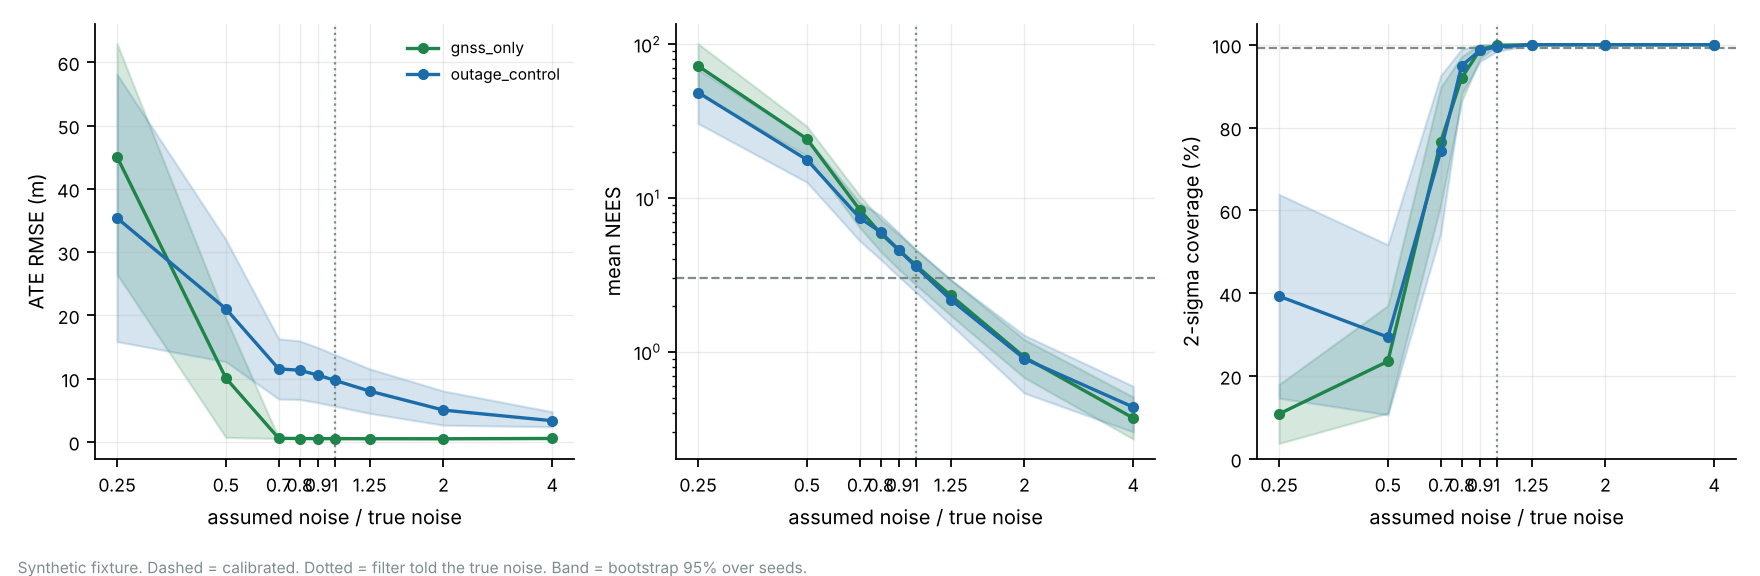
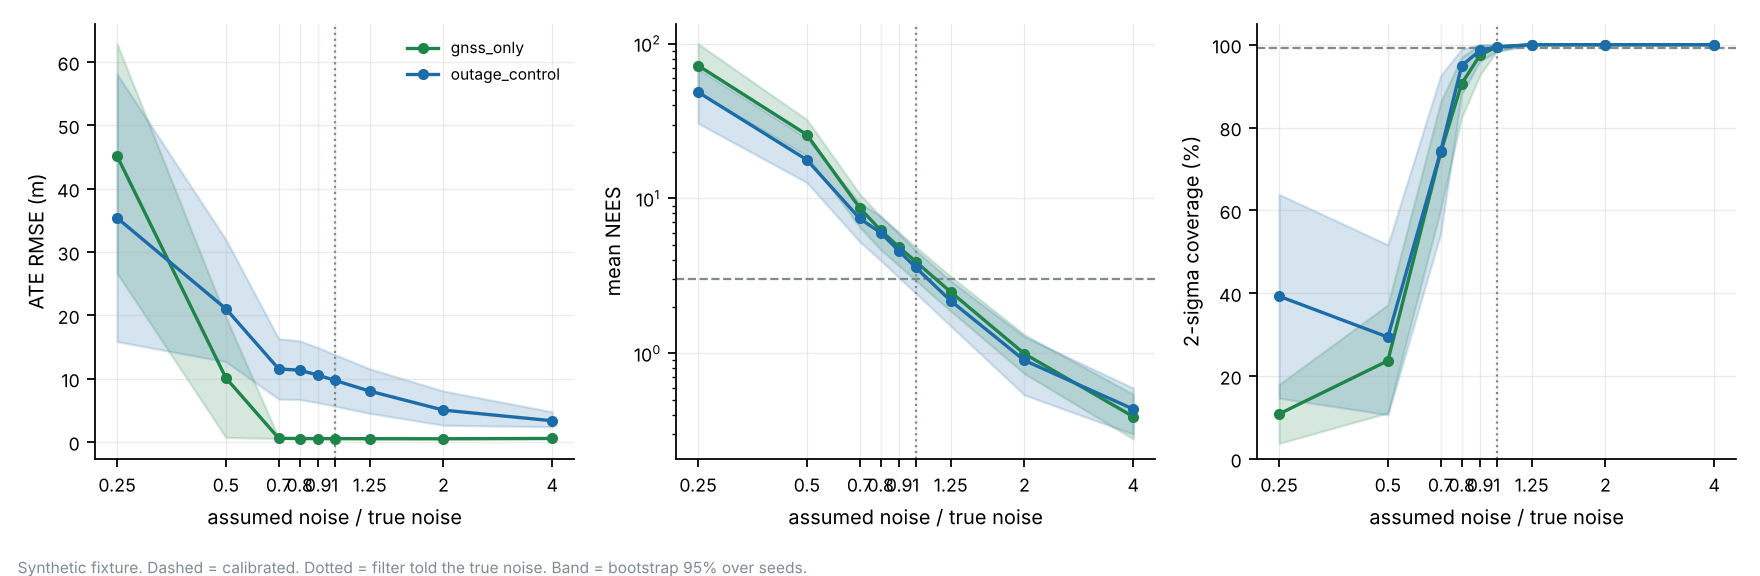
docs: record the injection decision and rerun the mismatch sweep
ADR-0012 records the decision and the before and after numbers. The noise-mismatch sweep is rerun with
IMU noise in gnss_only; the statements on its page still hold. MODEL.md drops finding 7 and the FMEA
rows no longer say the four cases have a noiseless IMU. The changelog notes the fix.

Closes #56

Claude-Session: https://claude.ai/code/session_01GwfcPN95nG6qXCvWKXzrSW

diff --git a/docs/MODEL.md b/docs/MODEL.md
@@ -325,15 +325,6 @@ snapshot.
 6. **The reference frame is the filter's frame.** The filter starts at the identity pose
    and the fixture starts there too, so ATE with `alignment: none` is the headline and
    there is no alignment error to absorb.
-7. **Four benchmark cases run with a noiseless IMU.** `run_case` calls the injection layer only
-   when the scenario has an outage or a camera drop. The synthetic IMU has no noise of its own;
-   the IMU noise and bias are added by that layer. So `gnss_only`, `dead_reckoning`,
-   `vision_anchor_in_measurement_noise` and `vision_only` have a clean IMU, and the three outage
-   cases have the default IMU noise. A scenario that sets only a timestamp offset changes nothing
-   in the streams, and one that sets only an IMU noise scale changes the noise the filter assumes
-   but not the data. Tracked in
-   [issue 56](https://github.com/Telschow/contested-nav/issues/56); `tests/test_fault_matrix.py`
-   pins which cases are affected.
 
 ## FMEA-lite
 
@@ -348,8 +339,8 @@ accuracy or calibration. This is a map of what is known, not a safety analysis.
 | GNSS denial with visual aiding | `gnss_outages` with `vision_fuse` | Visual relative pose with an anchor modelled as state ([ADR-0001](adr/0001-anchor-as-filter-state.md)). | Benchmark `outage_visual`; `navkit sweep outages` | Benchmarked and swept. Overconfident in all 40 sweep runs (coverage 10.4% to 39.2%), including 5 s outages. More accurate than the control only when the outage starts early. Structural, not a fault: shipped disabled ([ADR-0003](adr/0003-ship-visual-disabled.md)). |
 | Camera frame loss | `camera_drop`, `vision_outages` | Missed frames are simply absent; the relative pose then spans a longer baseline. | Benchmark `outage_visual_degraded_camera`; `test_camera_drop_*` in `tests/test_thresholds_and_injection.py`; `navkit sweep faults` | Benchmarked for one bursty pattern (30% of frames, 1 s bursts). Vision outages of 2 s and 5 s are measured in the [fault matrix](faults.md): error rises slowly and nothing is detected, because a missing measurement is not an outlier. |
 | IMU sample loss | `imu_outages` | The previous reading is held over the gap. An outage that removes almost every sample is refused. | `test_imu_outage_*` in `tests/test_thresholds_and_injection.py`; `navkit sweep faults` | Measured ([fault matrix](faults.md)). A 2 s loss raises position error by two orders of magnitude and the FDIR layer declares the healthy GNSS channel faulty; a 0.5 s loss is not declared but costs calibration. |
-| Timestamp offset (IMU, GNSS, vision) | `*_time_offset_s` | None: no latency compensation. | `test_inject_applies_a_vision_time_offset` (injection only); `navkit sweep faults` | GNSS and vision measured ([fault matrix](faults.md)). A GNSS offset degrades calibration with no detection; a vision offset shows nothing on an already uncalibrated case. IMU offset not measured. Scenario time offsets are ignored by the benchmark runner unless the scenario also has an outage or a camera drop ([issue 56](https://github.com/Telschow/contested-nav/issues/56)); the fault matrix forces the injection. |
-| IMU noise and bias | `imu_noise`, `imu_noise_scale` | Filter carries gyro and accelerometer bias states and a matching process noise. | Every benchmark case uses the default noise at scale 1 | Only scale 1 is run. Bias sigma fields are inert (see above). **The four benchmark cases without an outage or camera drop run with a noiseless IMU**, because the injection layer that adds IMU noise is skipped for them (finding 7). |
+| Timestamp offset (IMU, GNSS, vision) | `*_time_offset_s` | None: no latency compensation. | `test_inject_applies_a_vision_time_offset` (injection only); `navkit sweep faults` | GNSS and vision measured ([fault matrix](faults.md)). A GNSS offset degrades calibration with no detection; a vision offset shows nothing on an already uncalibrated case. IMU offset not measured. Every scenario goes through the injection layer, so a time offset on its own takes effect ([ADR-0012](adr/0012-every-scenario-is-injected.md)). |
+| IMU noise and bias | `imu_noise`, `imu_noise_scale` | Filter carries gyro and accelerometer bias states and a matching process noise. | Every benchmark case uses the default noise at scale 1, since every scenario is injected ([ADR-0012](adr/0012-every-scenario-is-injected.md)); `test_every_benchmark_case_goes_through_the_injection_layer` | Only scale 1 is run. Bias sigma fields are inert (see above). A noiseless IMU is `imu_noise_scale: 0`. |
 | Sensor noise mismatch (assumed GNSS or vision noise differs from the true noise) | `estimator.gnss_sigma_scale`, `estimator.vision_sigma_scale` | None specific. The chi-square gate and the NIS monitor work from the assumed noise. | `navkit sweep mismatch`; [Noise mismatch](mismatch.md) | Swept over nine factors for `gnss_only` and `outage_control`. An optimistic model makes the gate reject healthy fixes and calibration is lost between 0.7 and 0.8 of the true noise; a pessimistic one is loose, not wrong. A vision-noise mismatch is not swept. |
 | GNSS multipath, single spike | measurement outlier | Chi-square gate rejects it once, with a stated false-alarm rate ([ADR-0005](adr/0005-chi-square-fdir-gating.md)); recovers on the next good fix. | `test_a_single_multipath_spike_is_rejected_once_and_recovers_immediately` in `tests/test_fdir.py`; `navkit sweep faults` | Measured ([fault matrix](faults.md)): the gate rejects a 20 m spike in every seed, no fault is declared and the error does not move. |
 | GNSS slow bias | `gnss.multipath_sigma_m`, `multipath_tau_s` | None specific. A Gauss-Markov surrogate, not a multipath model. | The model is in `sensors/models.py`; `navkit sweep faults` | Measured ([fault matrix](faults.md)): mostly invisible to the gate at 1 sigma, and the filter becomes overconfident. |

diff --git a/docs/mismatch.md b/docs/mismatch.md
@@ -23,15 +23,15 @@ reruns the sweep and fails if the committed CSV no longer matches it.
 
 | Case | Assumed noise x | ATE rmse m [95% CI] | NEES mean [95% CI] | Coverage @2σ % [95% CI] | Claimed 1σ m | GNSS fixes rejected % [95% CI] | Verdicts |
 |---|---:|---|---|---|---:|---|---|
-| gnss_only | 0.25 | 45.03 [26.46, 62.92] | 72.3 [48.1, 100.8] | 10.8 [3.7, 18.0] | 7.198 | 94.4 [92.1, 96.8] | overconfident x5 |
-| gnss_only | 0.5 | 10.07 [0.70, 19.57] | 24.3 [18.8, 29.3] | 23.5 [11.0, 37.0] | 2.251 | 47.8 [22.8, 75.0] | overconfident x5 |
-| gnss_only | 0.7 | 0.57 [0.53, 0.61] | 8.4 [6.4, 10.4] | 76.5 [61.3, 89.7] | 0.187 | 4.2 [3.7, 4.9] | overconfident x5 |
-| gnss_only | 0.8 | 0.52 [0.49, 0.57] | 5.9 [4.5, 7.3] | 92.0 [86.3, 97.1] | 0.207 | 1.2 [0.9, 1.3] | mixed(bulk xoverconfident, tail xunderconfident) x1, overconfident x4 |
-| gnss_only | 0.9 | 0.51 [0.47, 0.56] | 4.6 [3.4, 5.8] | 98.8 [96.7, 100.0] | 0.228 | 0.1 [0.0, 0.4] | mixed(bulk xoverconfident, tail xcalibrated) x1, mixed(bulk xoverconfident, tail xunderconfident) x2, overconfident x1, underconfident x1 |
-| gnss_only | 1 | 0.51 [0.46, 0.55] | 3.7 [2.7, 4.6] | 99.9 [99.6, 100.0] | 0.252 | 0.0 [0.0, 0.0] | mixed(bulk xoverconfident, tail xcalibrated) x1, mixed(bulk xoverconfident, tail xunderconfident) x2, underconfident x2 |
-| gnss_only | 1.25 | 0.50 [0.46, 0.54] | 2.3 [1.7, 3.0] | 100.0 [100.0, 100.0] | 0.312 | 0.0 [0.0, 0.0] | mixed(bulk xoverconfident, tail xunderconfident) x1, underconfident x4 |
-| gnss_only | 2 | 0.49 [0.44, 0.54] | 0.9 [0.7, 1.2] | 100.0 [100.0, 100.0] | 0.489 | 0.0 [0.0, 0.0] | underconfident x5 |
-| gnss_only | 4 | 0.54 [0.48, 0.60] | 0.4 [0.3, 0.5] | 100.0 [100.0, 100.0] | 0.920 | 0.0 [0.0, 0.0] | underconfident x5 |
+| gnss_only | 0.25 | 45.14 [26.64, 62.88] | 72.1 [48.4, 99.7] | 10.8 [3.7, 18.0] | 7.199 | 94.4 [92.1, 96.8] | overconfident x5 |
+| gnss_only | 0.5 | 10.10 [0.70, 19.69] | 25.8 [18.9, 32.3] | 23.7 [11.1, 37.2] | 2.255 | 48.1 [22.9, 75.4] | overconfident x5 |
+| gnss_only | 0.7 | 0.57 [0.53, 0.62] | 8.7 [6.5, 10.7] | 74.0 [60.3, 86.2] | 0.187 | 4.4 [3.7, 5.2] | overconfident x5 |
+| gnss_only | 0.8 | 0.53 [0.50, 0.58] | 6.2 [4.7, 7.6] | 90.6 [82.5, 97.0] | 0.207 | 1.2 [0.9, 1.3] | mixed(bulk xoverconfident, tail xunderconfident) x1, overconfident x4 |
+| gnss_only | 0.9 | 0.52 [0.48, 0.57] | 4.8 [3.7, 6.0] | 97.5 [92.7, 100.0] | 0.228 | 0.1 [0.0, 0.4] | mixed(bulk xcalibrated, tail xunderconfident) x1, mixed(bulk xoverconfident, tail xcalibrated) x1, mixed(bulk xoverconfident, tail xunderconfident) x2, overconfident x1 |
+| gnss_only | 1 | 0.52 [0.47, 0.57] | 3.9 [3.0, 4.9] | 99.5 [98.4, 100.0] | 0.252 | 0.0 [0.0, 0.0] | mixed(bulk xcalibrated, tail xunderconfident) x1, mixed(bulk xoverconfident, tail xunderconfident) x2, overconfident x1, underconfident x1 |
+| gnss_only | 1.25 | 0.51 [0.47, 0.56] | 2.5 [1.9, 3.1] | 100.0 [100.0, 100.0] | 0.312 | 0.0 [0.0, 0.0] | mixed(bulk xoverconfident, tail xunderconfident) x1, underconfident x4 |
+| gnss_only | 2 | 0.50 [0.45, 0.56] | 1.0 [0.7, 1.3] | 100.0 [100.0, 100.0] | 0.489 | 0.0 [0.0, 0.0] | underconfident x5 |
+| gnss_only | 4 | 0.55 [0.49, 0.62] | 0.4 [0.3, 0.5] | 100.0 [100.0, 100.0] | 0.920 | 0.0 [0.0, 0.0] | underconfident x5 |
 | outage_control | 0.25 | 35.37 [15.85, 58.09] | 48.6 [30.5, 68.6] | 39.3 [14.6, 63.8] | 6.940 | 87.9 [82.1, 93.7] | overconfident x5 |
 | outage_control | 0.5 | 21.02 [12.66, 31.96] | 17.8 [12.7, 24.5] | 29.4 [10.6, 51.7] | 2.669 | 43.4 [20.5, 67.9] | overconfident x5 |
 | outage_control | 0.7 | 11.53 [6.77, 16.29] | 7.4 [5.3, 9.4] | 74.3 [54.4, 92.5] | 0.420 | 3.4 [1.6, 5.3] | overconfident x5 |
@@ -82,11 +82,9 @@ Each statement below is checked against the CSV by `tests/test_mismatch_sweep.py
   noise is mismatched.
 - Only the assumed GNSS and vision sigmas change. IMU noise, the outage window and the
   trajectory do not.
-- `gnss_only` runs with a noiseless IMU and `outage_control` with the default IMU noise, because the
-  benchmark runner skips the injection layer for a case with no outage
-  ([issue 56](https://github.com/Telschow/contested-nav/issues/56)). The two cases differ in more than the
-  outage, and the `gnss_only` rows are for a filter with no IMU noise to contend with. The sweep has not
-  been re-run with the layer forced on.
+- Both cases have the default IMU noise ([ADR-0012](adr/0012-every-scenario-is-injected.md)). An
+  earlier version of this sweep ran `gnss_only` with a noiseless IMU; it was rerun after that was fixed
+  and the statements above still hold.
 - Five seeds per cell, so the intervals are rough. At factor 1 the per-seed verdicts are split
   between `mixed`, `underconfident` and `overconfident`; the verdict column shows the split
   rather than a single label.

diff --git a/docs/adr/0012-every-scenario-is-injected.md b/docs/adr/0012-every-scenario-is-injected.md
@@ -1,0 +1,70 @@
+# ADR-0012: Every scenario goes through the injection layer
+
+- Status: accepted
+- Date: 2026-10
+- Fixes: [issue 56](https://github.com/Telschow/contested-nav/issues/56)
+
+## Context
+
+`run_case` in `src/navkit/benchmark.py` applied a scenario to the clean sensor streams with
+`inject()` only if the scenario had a camera drop or an outage. Otherwise the filter was given the
+clean streams. The synthetic IMU has no noise of its own (`synthetic.py`: "no noise floor"); the IMU
+noise and bias are added by `apply_imu_noise`, inside `inject()`.
+
+So four of the seven benchmark cases (`gnss_only`, `dead_reckoning`,
+`vision_anchor_in_measurement_noise`, `vision_only`) ran with a noiseless IMU, and the three outage
+cases ran with the default IMU noise. `configs/benchmark.yaml` says cases "differ only in what is
+degraded, which is what makes them comparable". They also differed in IMU noise. A scenario that
+set only a timestamp offset, or only a vision noise multiplier, had no effect.
+
+It was found while building the fault matrix: a GNSS timestamp offset of 0.5 s produced a result
+identical to the control to every digit.
+
+## Decision
+
+Every scenario goes through `inject()`. The `force_inject` argument added to `run_case` for the fault
+matrix is removed, because nothing is skipped any more.
+
+A noiseless IMU is still available to anyone who wants it: set `imu_noise_scale: 0` on the scenario.
+`tests/test_injection_path.py` checks that this reproduces the old dead-reckoning number.
+
+## Consequences
+
+The three outage cases are bit-identical: the golden snapshot has no changed path for them. The four
+cases that were not injected move, and none changes its calibration verdict:
+
+| Case | ATE m | Mean NEES | 2σ coverage |
+|---|---|---|---|
+| `gnss_only` | 0.503 to 0.509 | 3.7 to 4.0 | 100.0% to 100.0% |
+| `dead_reckoning` | 1.877 to 2.248 | n/a | n/a |
+| `vision_anchor_in_measurement_noise` | 1.307 to 1.310 | 387.3 to 405.0 | 16.0% to 16.2% |
+| `vision_only` | 2.309 to 2.357 | 331.0 to 358.5 | 0.7% to 0.7% |
+
+Claimed 1σ is unchanged to three decimals (0.252, 0.091, 0.156 m). The headline result, GNSS denied
+with vision on (ATE 2.541 m, claimed 0.161 m, mean NEES 419.4, coverage 20.0%), does not move.
+
+The golden snapshot was regenerated in its own commit. The README, results, getting-started and
+calibration pages, and three figures, were updated. The 10-seed and 8-scene sweeps were rerun:
+`outage_visual` is unchanged, the `vision_only` seed range is now 231 to 2917 mean NEES, and all
+seven verdicts are still identical in all eight scenes. The noise-mismatch sweep was rerun with the
+layer applied to `gnss_only`; the statements on its page still hold. The fault matrix was already
+forced through the layer and is unchanged.
+
+`dead_reckoning` is now dead reckoning on a noisy IMU, which is the more honest control. Its error
+is 20% higher than before.
+
+## Alternatives rejected
+
+- **Keep skipping, and state per case that the IMU is clean.** It keeps the old numbers, and keeps
+  four cases that cannot be compared with the other three or with any fault study. The numbers move
+  by little, so the cost of fixing is small.
+- **Add IMU noise to the generator.** The IMU noise model, its seed derivation and its manifest
+  already live in the injection layer. A second source would double the noise or need a switch.
+- **A config key to opt out of injection.** `imu_noise_scale: 0` already says what is meant.
+
+## What this does not settle
+
+The IMU noise injected into every case is the default model
+(`ImuNoiseModel(2e-4, 2e-3, 2e-6, 1e-4, 1e-5, 2e-3)`), whose bias sigma fields are inert
+([model contract](../MODEL.md), finding 1). The decision is about which cases get the noise, not
+about whether the noise model is right.

diff --git a/docs/faults.md b/docs/faults.md
@@ -110,10 +110,9 @@ on the control. **It is not met.**
   runs from under 1 m to nearly 10 m.
 - The spoof is a constant offset east. A spoof that ramps, or that is consistent with the IMU, is
   not tried.
-- Every cell, controls included, goes through the injection layer, so all of them have the default
-  IMU noise. The `gnss_only` and `vision_only` controls therefore differ from the benchmark rows of
-  the same name, which run with a noiseless IMU
-  ([issue 56](https://github.com/Telschow/contested-nav/issues/56), model contract finding 7).
+- Every cell, controls included, has the default IMU noise, as does every benchmark case
+  ([ADR-0012](adr/0012-every-scenario-is-injected.md)). Before that decision four benchmark cases ran
+  with a noiseless IMU; this sweep did not, because it forced the injection.
 - "Detected" and "declared" describe what the filter's own gate did. Nothing here is a protection
   level or an integrity claim, and there is no detector for a slow bias or a timing error to
   measure.

diff --git a/CHANGELOG.md b/CHANGELOG.md
@@ -9,6 +9,16 @@ this project uses [semantic versioning](https://semver.org/).
 
 ## [Unreleased]
 
+### Fixed
+
+- Every benchmark scenario now goes through the injection layer. The runner skipped it for a scenario
+  with no outage or camera drop, which ran `gnss_only`, `dead_reckoning`,
+  `vision_anchor_in_measurement_noise` and `vision_only` with a noiseless IMU and ignored a scenario
+  that set only a timestamp offset. Those four cases move slightly (ATE by 0.003 m to 0.371 m) and no
+  verdict changes; the three outage cases and the headline result are bit-identical.
+  [ADR-0012](docs/adr/0012-every-scenario-is-injected.md), golden snapshot regenerated.
+  ([#56](https://github.com/Telschow/contested-nav/issues/56))
+
 ### Added
 
 - `navkit` command line: `navkit run`, `navkit sweep seeds|scenes|outages`, `navkit figures`

diff --git a/docs/adr/index.md b/docs/adr/index.md
@@ -16,3 +16,4 @@ what it cost, and what was rejected.
 | [ADR-0009](0009-cross-platform-numerics.md) | Cross-platform numerics and the golden tolerance | accepted |
 | [ADR-0010](0010-determinism-and-seeding.md) | Determinism and seeding policy | accepted |
 | [ADR-0011](0011-ci-and-supply-chain.md) | CI and supply-chain strategy | accepted |
+| [ADR-0012](0012-every-scenario-is-injected.md) | Every scenario goes through the injection layer | accepted |
